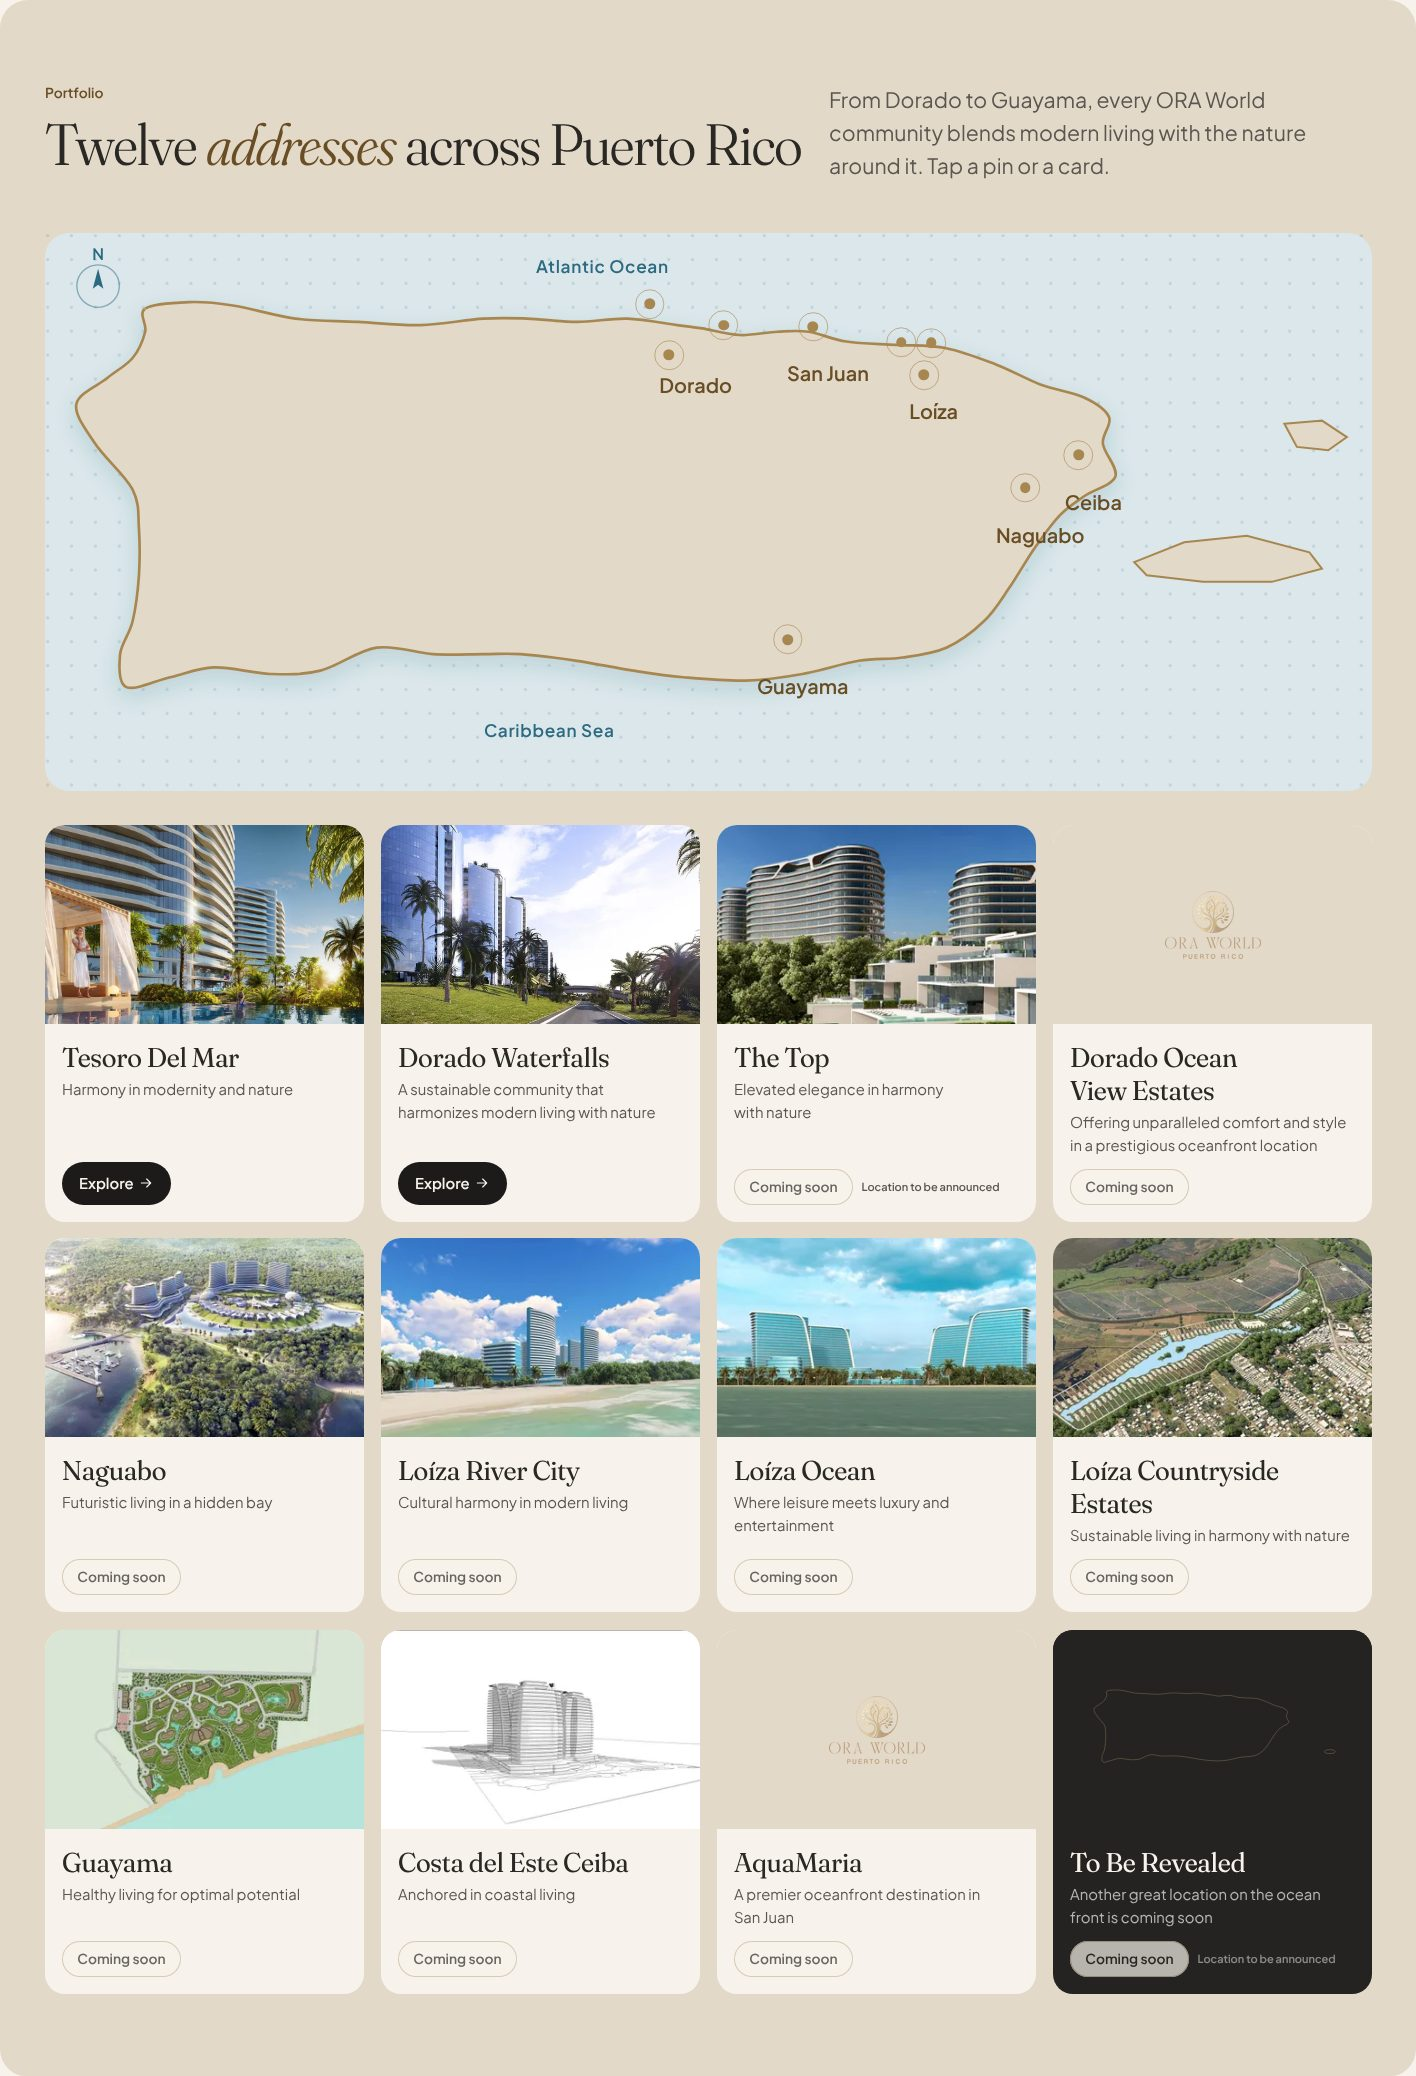
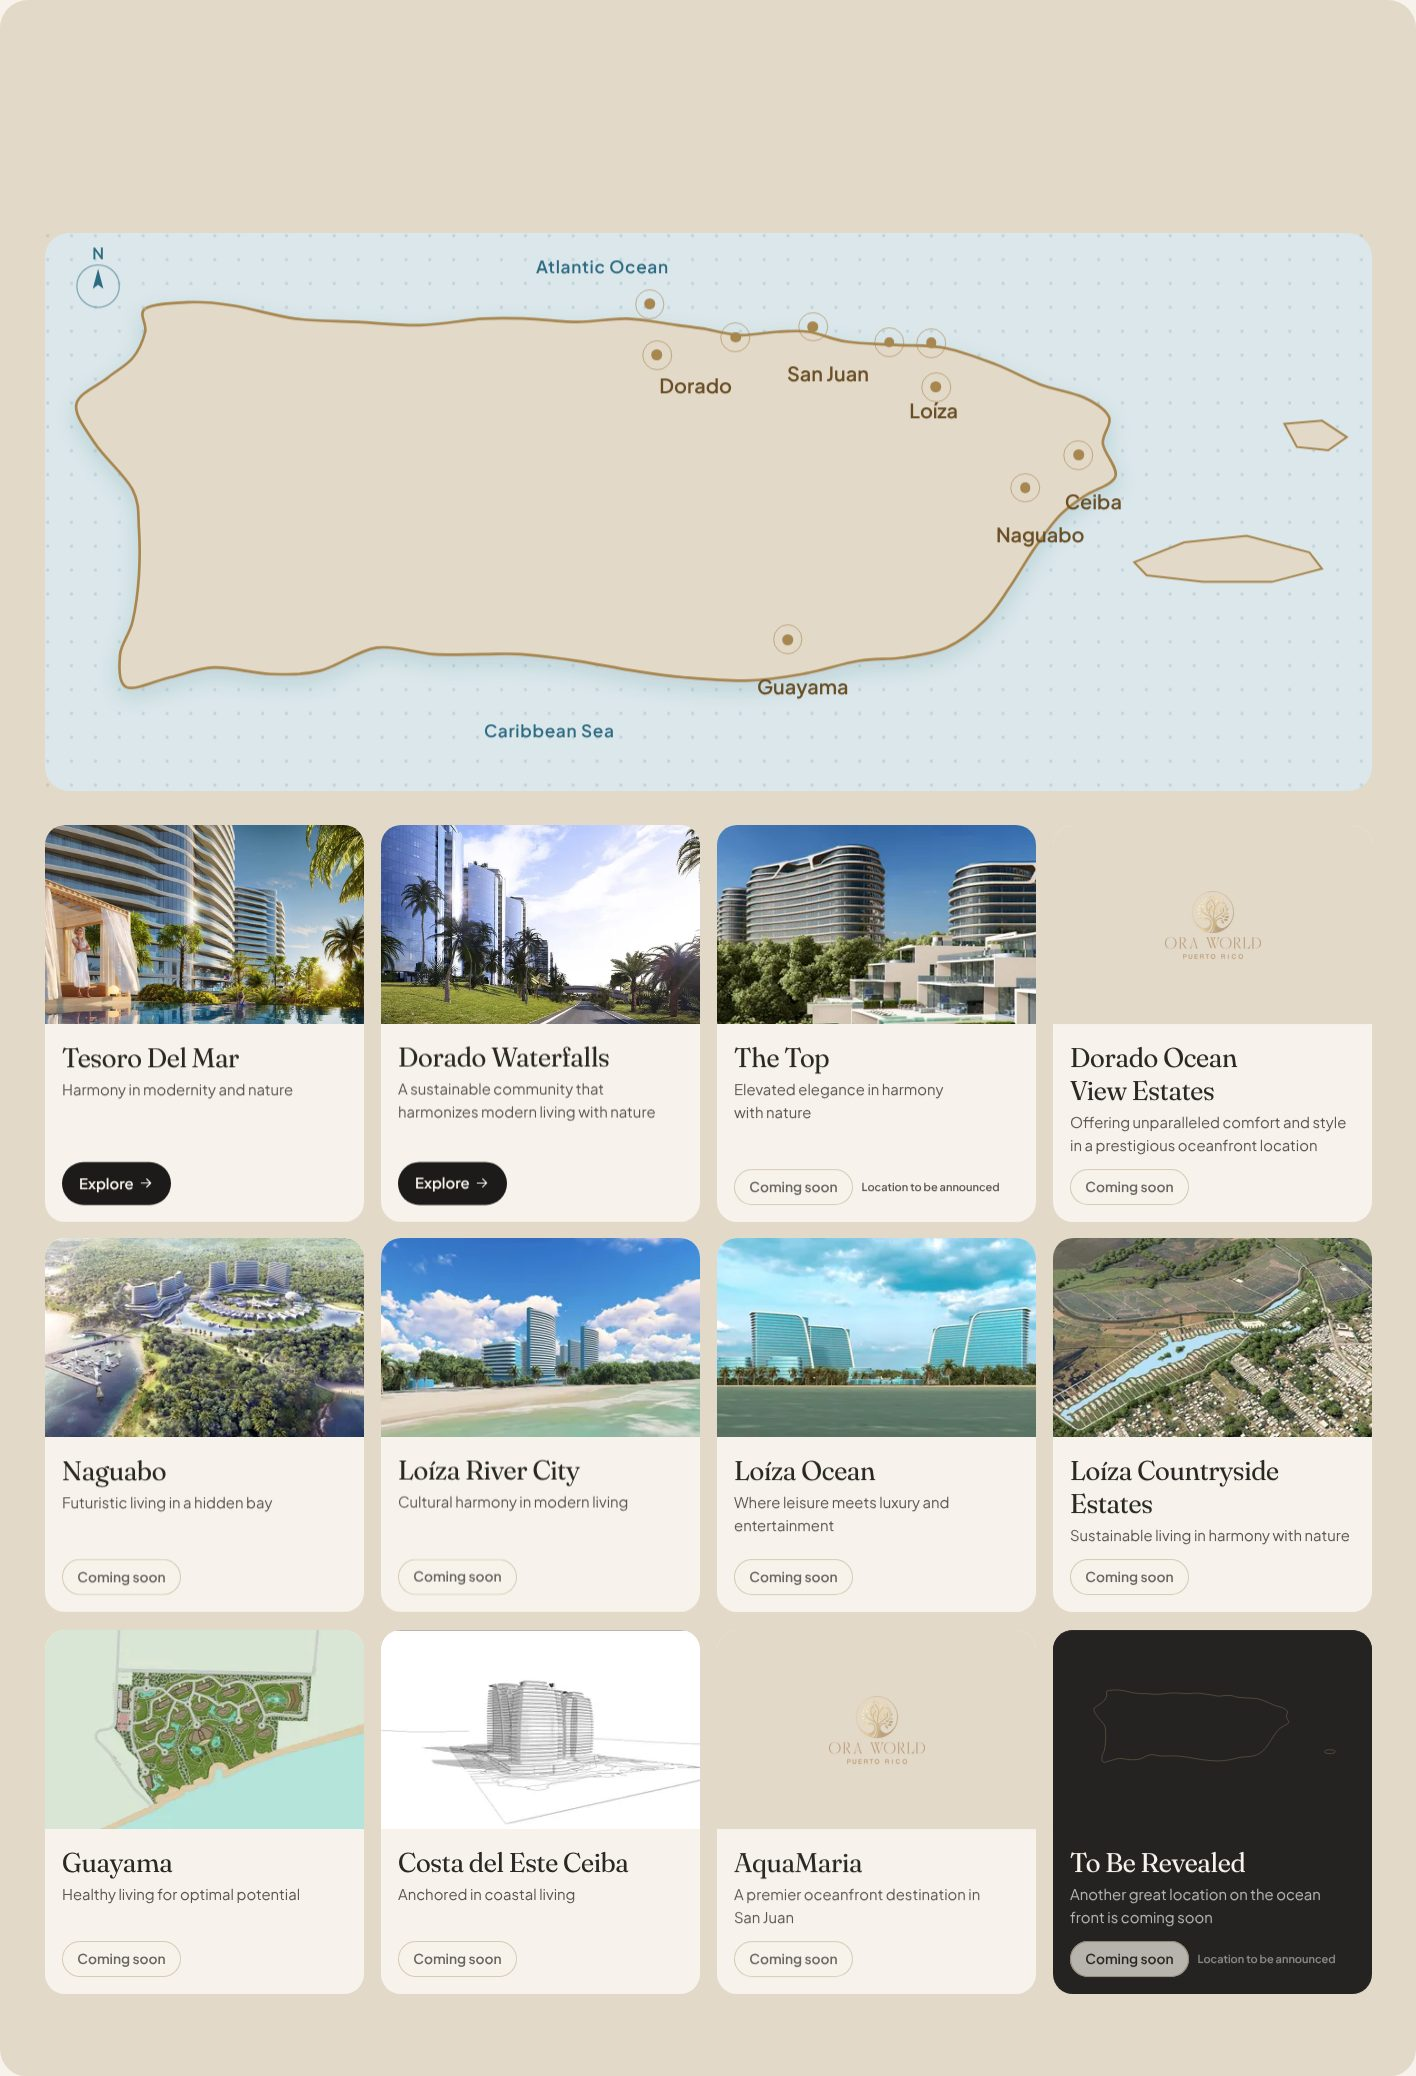
Portfolio map: pin targets keep 24px at phone scale, no edge fades over labels
The phone map rail lost its edge fades (they pulled the Ceiba and sea labels below AA contrast) and the
clustered Loíza and Dorado pins fan out wider so every tap target keeps the WCAG 2.2 minimum.
Playwright: 66 passed, 2 skipped (device-specific).

Claude-Session: https://claude.ai/code/session_01T2q5z2rnZz2bdXSpofiFfp

diff --git a/src/components/place/IslandMap.tsx b/src/components/place/IslandMap.tsx
@@ -19,7 +19,8 @@ export const ISLAND_PATH =
 const VIEQUES = "M820.8 248.0 L858.5 233.1 L905.7 228.2 L952.8 240.6 L962.3 253.0 L924.5 262.9 L872.6 262.9 L830.2 257.9 Z";
 const CULEBRA = "M934.0 143.8 L962.3 141.4 L981.1 153.8 L967.0 163.7 L943.4 161.2 Z";
 
-const FAN: Record<number, [number, number]> = { 0: [0, 0], 1: [-18, 12], 2: [18, 12], 3: [0, 24] };
+// Wide enough that clustered pins (Dorado, Loíza) never overlap below the 24px target minimum at phone scale.
+const FAN: Record<number, [number, number]> = { 0: [0, 0], 1: [-30, 12], 2: [30, 24], 3: [0, 36] };
 
 export function IslandMap({
   pins,
@@ -64,9 +65,7 @@ export function IslandMap({
 
   return (
     <div className={cn("relative min-w-0 max-w-full overflow-hidden rounded-[20px] md:overflow-visible md:rounded-[24px]", className)} data-testid="island-map">
-      {/* On phones the island is a 760px-wide drag rail; the fade hints there is more to the right */}
-      <div aria-hidden className="pointer-events-none absolute inset-y-0 right-0 z-10 w-10 rounded-r-[20px] bg-gradient-to-l from-[#dbe7ea] to-transparent md:hidden" />
-      <div aria-hidden className="pointer-events-none absolute inset-y-0 left-0 z-10 w-10 rounded-l-[20px] bg-gradient-to-r from-[#dbe7ea] to-transparent md:hidden" />
+      {/* On phones the island is a 760px-wide drag rail, opened on the pins. No edge fades: they washed labels below AA. */}
     <div ref={railRef} className="no-scrollbar overflow-x-auto overscroll-x-contain rounded-[20px] bg-[#dbe7ea] md:overflow-visible md:rounded-[24px]">
     <div className="group relative min-w-[760px] md:min-w-0" data-reveal>
       <svg viewBox="0 0 1000 420" className="block h-auto w-full" role="img" aria-label={t("map")}>
